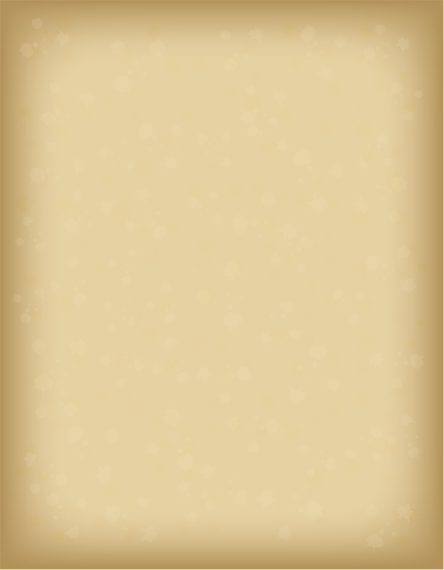
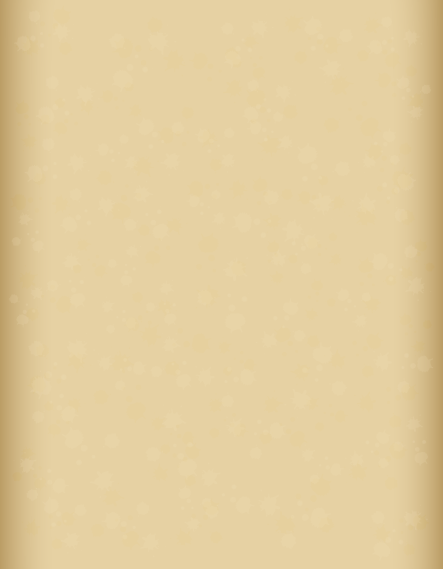
Arreglo de fondo

Changed region(s): [[0.0, 0.0, 1.0, 1.0]]

diff --git a/index.html b/index.html
@@ -15,7 +15,7 @@
         <link rel="stylesheet" href="css/styles.css">
     </head>
     <body class="bg-dark">
-        <div class="container-fluid"><!-- Contenedor Navegador -->
+        <div class="container-fluid p-0"><!-- Contenedor Navegador -->
             <div class="libro row row-cols-1 row-cols-md-2 my-md-4"><!-- Historia1 -->
                 <div class="col"><!-- Pagina 1 -->
                     <div class="container papel">

diff --git a/css/styles.css b/css/styles.css
@@ -15,7 +15,7 @@
     max-width: 444px;
     border-style: solid;
     border-width: 1px;
-    border-color: #B29259;
+    border-color: #b9974e;
 }
 
 .pagina{
